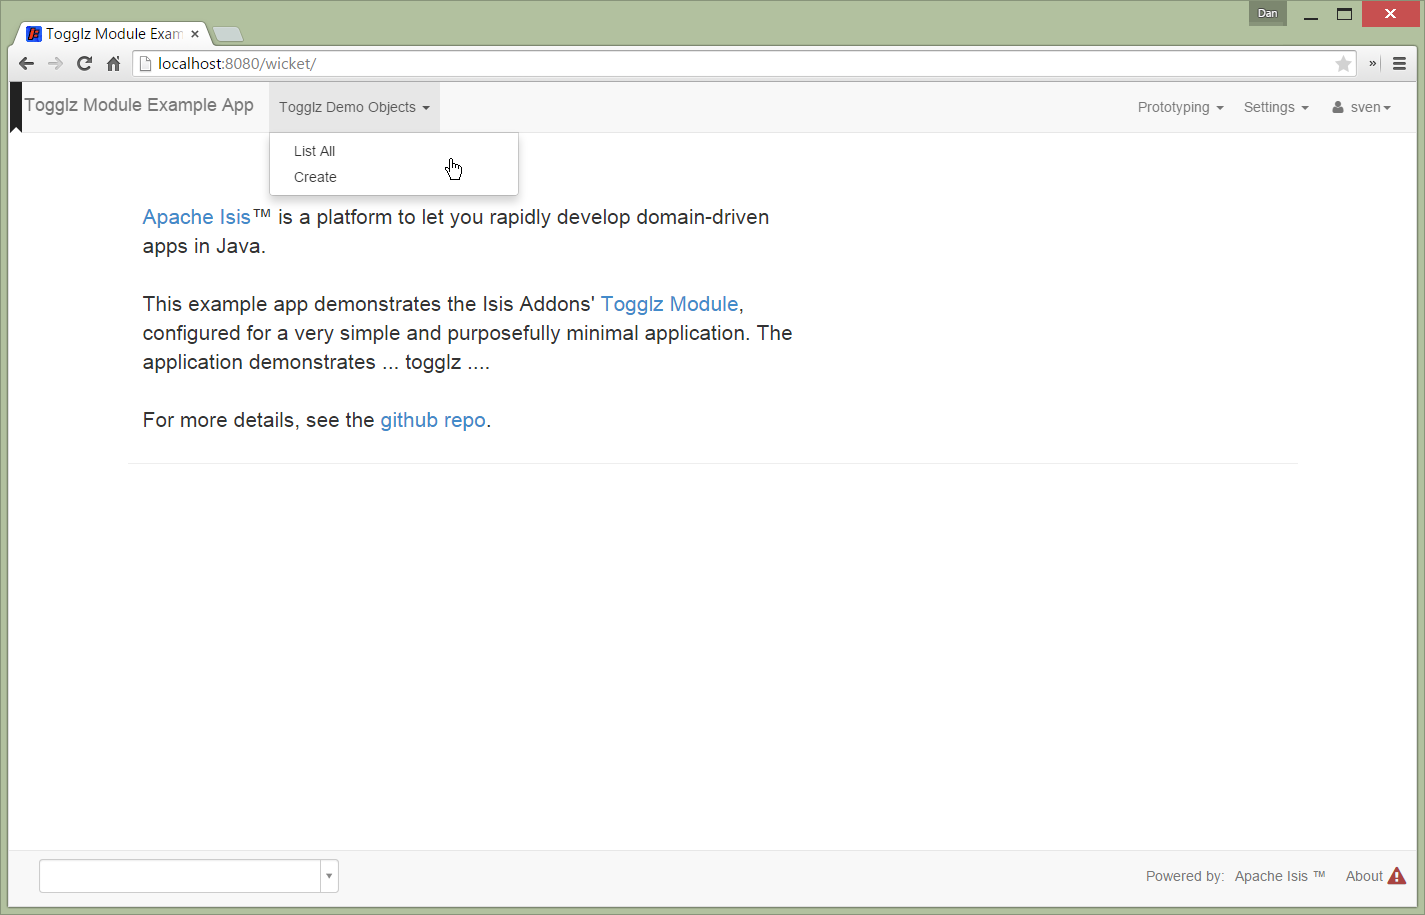
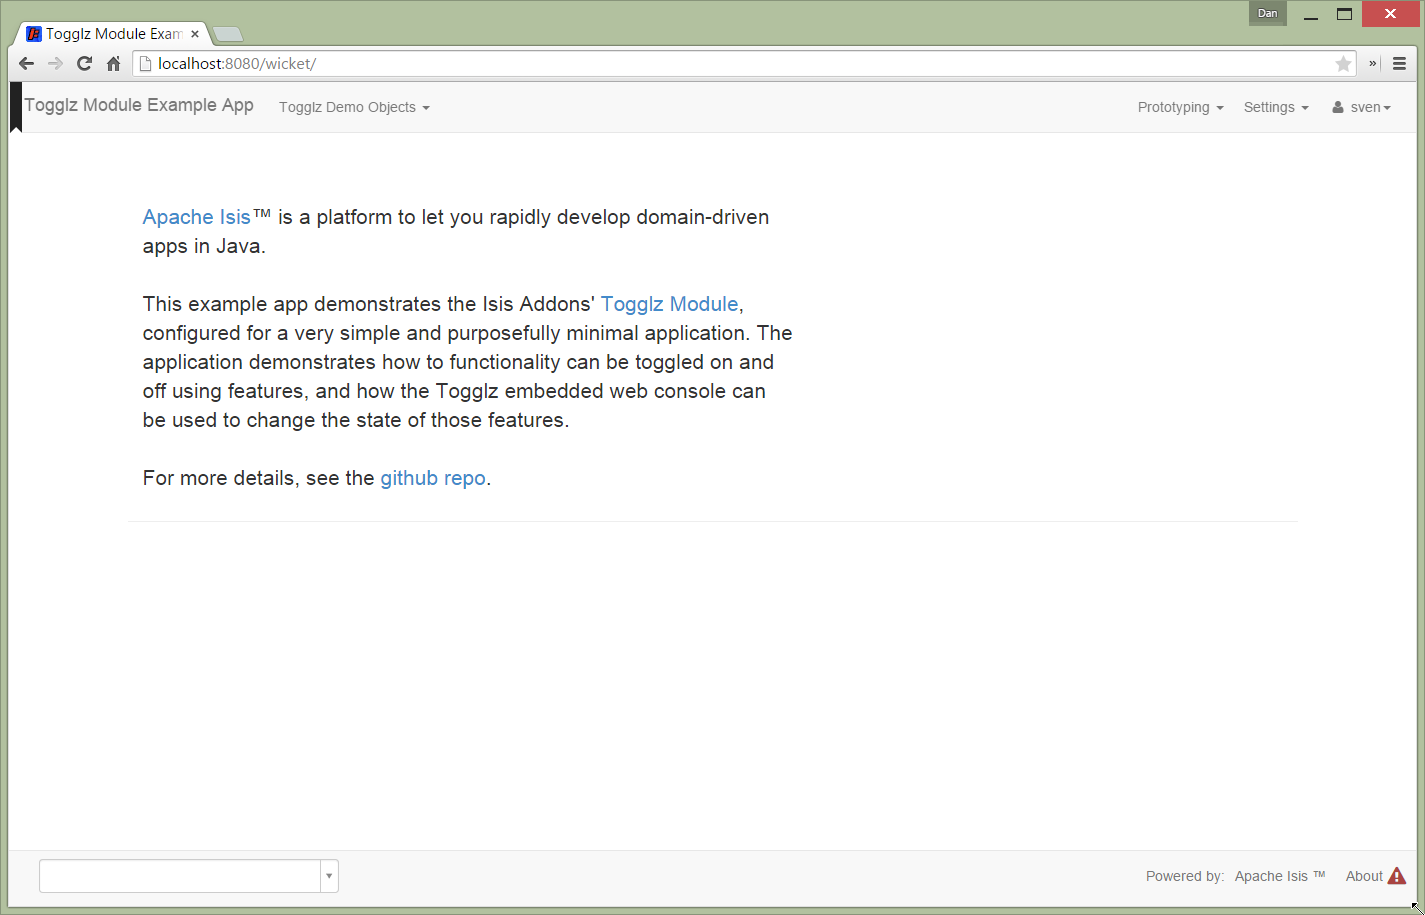
updating welcome page in the demo app

diff --git a/webapp/src/main/resources/org/isisaddons/module/togglz/webapp/welcome.html b/webapp/src/main/resources/org/isisaddons/module/togglz/webapp/welcome.html
@@ -20,7 +20,8 @@
     <br/>
     <br/>
     This example app demonstrates the Isis Addons' <a href="https://github.com/isisaddons/isis-module-togglz" target="_blank">Togglz Module</a>,
-    configured for a very simple and purposefully minimal application.  The application demonstrates ... togglz ....
+    configured for a very simple and purposefully minimal application.  The application demonstrates how to functionality can be toggled on and off
+    using features, and how the Togglz embedded web console can be used to change the state of those features.
     <br/>
     <br/>
     For more details, see the <a href="https://github.com/isisaddons/isis-module-togglz" target="_blank">github repo</a>.
